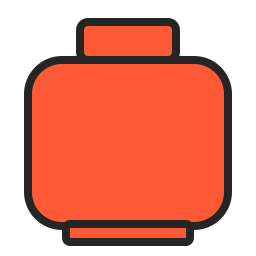
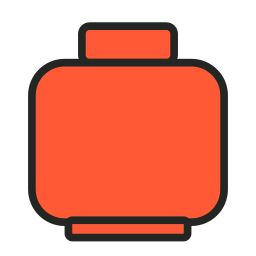
Slightly reduce Android reminder badge

Changed region(s): [[0.0938, 0.0625, 0.9062, 0.9688]]

diff --git a/index.html b/index.html
@@ -78,10 +78,10 @@
   <script src="https://accounts.google.com/gsi/client" async defer></script>
   <script src="https://apis.google.com/js/api.js" async defer></script>
   <script src="demo-catalogue.js?v=20260902-1"></script>
-  <script src="app.js?v=20260907-12"></script>
+  <script src="app.js?v=20260907-13"></script>
   <script src="mobile-tag-behavior.js?v=20260719-3"></script>
   <script src="date-time-format.js?v=20260903-9"></script>
-  <script type="module" src="firebase-sync.js?v=20260907-12"></script>
-  <script type="module" src="release-calendar.js?v=20260907-12"></script>
+  <script type="module" src="firebase-sync.js?v=20260907-13"></script>
+  <script type="module" src="release-calendar.js?v=20260907-13"></script>
   <script type="module" src="date-time-picker.js?v=20260903-11"></script>
 </body></html>

diff --git a/worker/reminder-api.js b/worker/reminder-api.js
@@ -90,7 +90,7 @@ export default {
         url: body.siteUrl || 'https://cmcollector.com/',
         chrome_web_icon: 'https://cmcollector.com/notification-lego-head-white.png',
         firefox_icon: 'https://cmcollector.com/notification-lego-head-white.png',
-        chrome_web_badge: 'https://cmcollector.com/notification-lego-head.png',
+        chrome_web_badge: 'https://cmcollector.com/notification-lego-head.png?v=2',
         idempotency_key: await idempotencyKey(`${user.localId}:${body.reminderId}:${remindAt.toISOString()}`)
       };
       if (remindAt.getTime() > Date.now() + 30000) payload.send_after = remindAt.toISOString();
